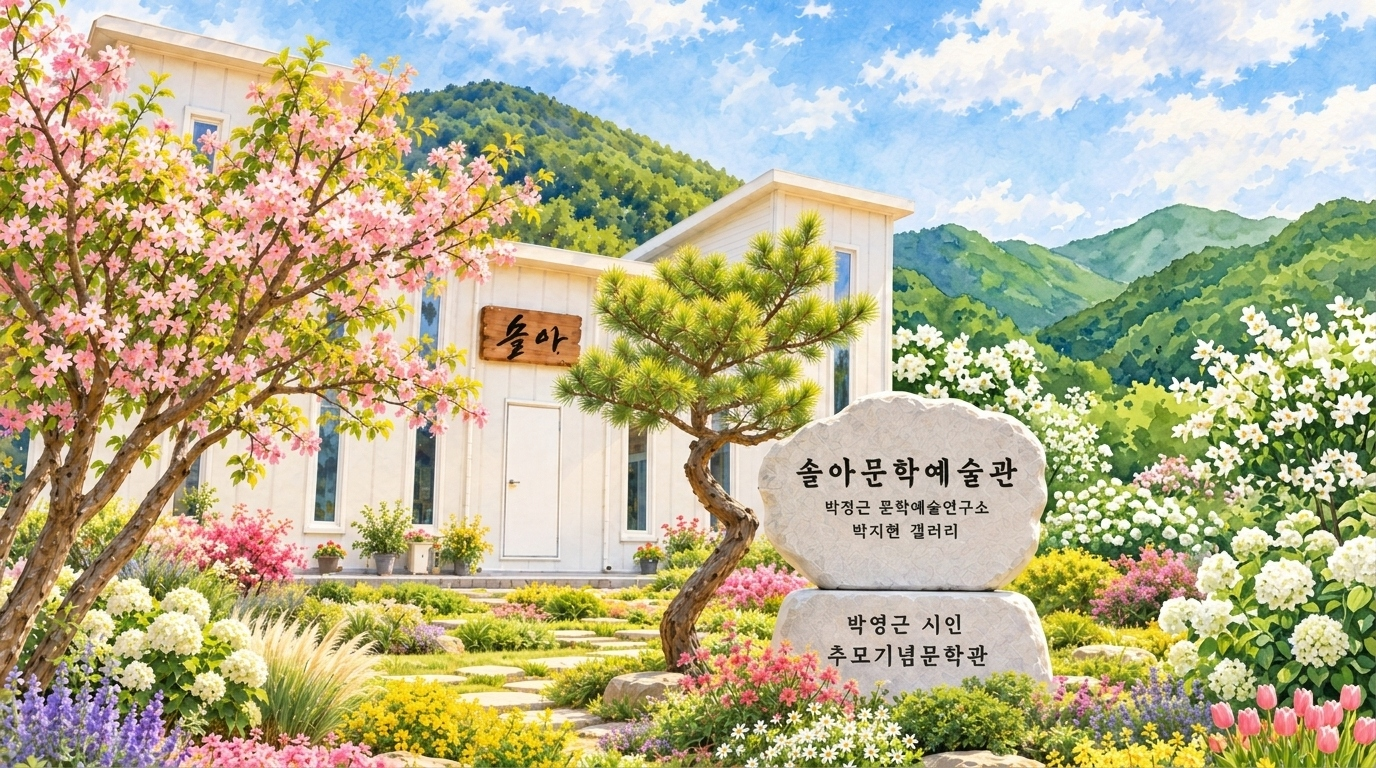
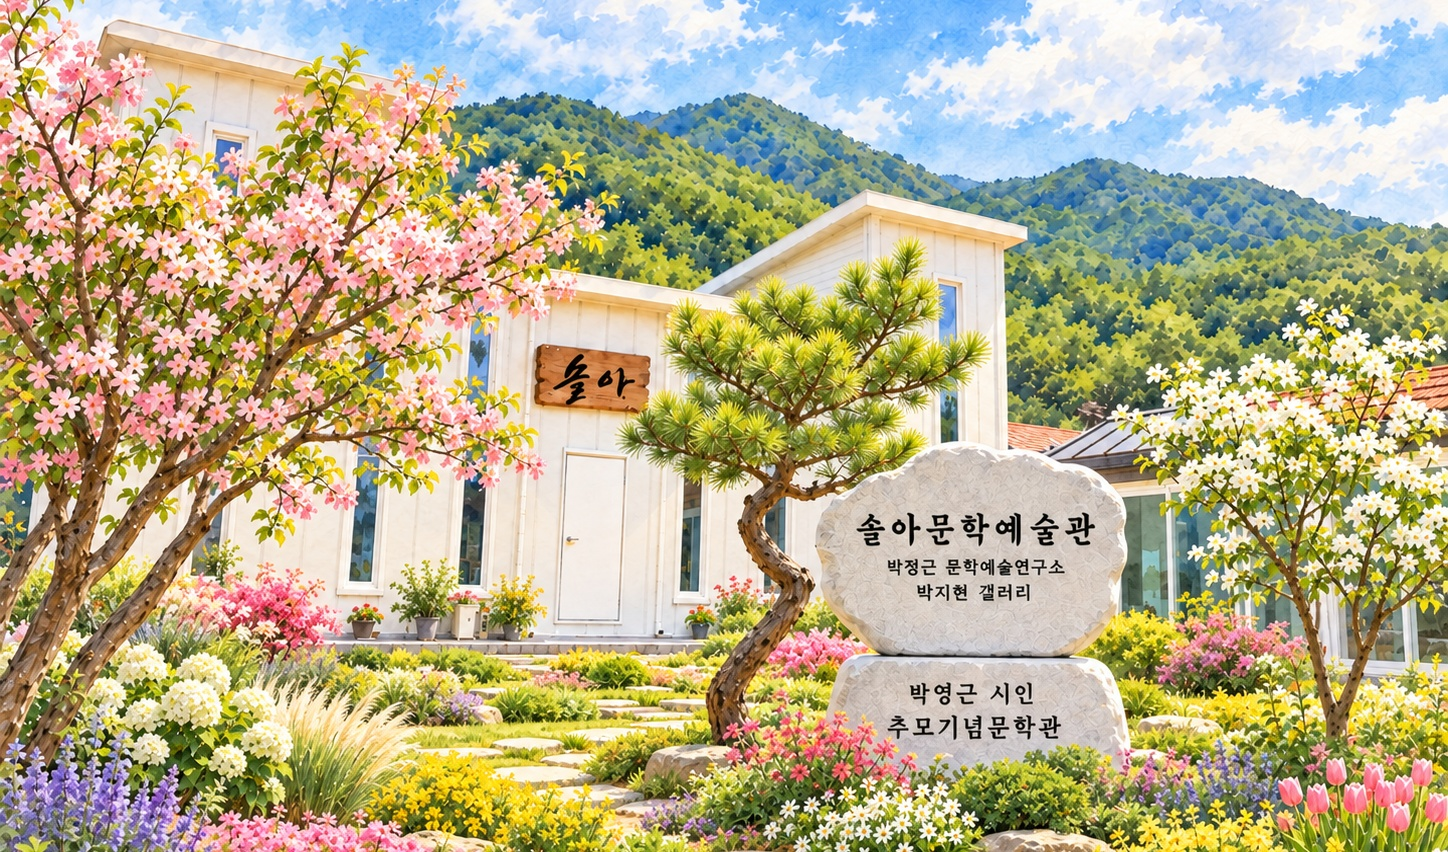
Replace main hero image with original watercolor 2 painting and update cache

diff --git a/style.css b/style.css
@@ -420,7 +420,7 @@ img {
   inset: 0;
   background-image: 
     linear-gradient(to right, rgba(16, 18, 22, 0.93) 0%, rgba(16, 18, 22, 0.70) 30%, rgba(16, 18, 22, 0.05) 50%, transparent 66%),
-    url('assets/images/박영근시비_앞면.jpg?v=20261001_left_shift');
+    url('assets/images/솔아문학예술관_수채화2.png?v=20261012');
   background-size: cover;
   background-position: center bottom;
   z-index: 1;
@@ -580,7 +580,7 @@ img {
   border-radius: 4px;
   overflow: hidden;
   box-shadow: 0 24px 60px rgba(0, 0, 0, 0.25);
-  max-width: 390px;
+  max-width: 350px;
   width: 100%;
   flex-shrink: 0;
   justify-self: end;
@@ -2694,7 +2694,7 @@ img {
     background-position: center bottom;
     background-image: 
       linear-gradient(to bottom, rgba(16, 18, 22, 0.94) 0%, rgba(16, 18, 22, 0.78) 45%, rgba(16, 18, 22, 0.94) 100%),
-      url('assets/images/박영근시비_앞면.jpg?v=20261001_left_shift');
+      url('assets/images/솔아문학예술관_수채화2.png?v=20261012');
   }
 
   .hero-art-content {

diff --git a/index.html b/index.html
@@ -19,7 +19,7 @@
   <meta property="og:type" content="website">
 
   <!-- Icons & Fonts -->
-  <link rel="stylesheet" href="style.css?v=20261001_poet_2lines">
+  <link rel="stylesheet" href="style.css?v=20261012_watercolor2">
   <link rel="stylesheet" href="https://cdnjs.cloudflare.com/ajax/libs/font-awesome/6.5.1/css/all.min.css">
 </head>
 
